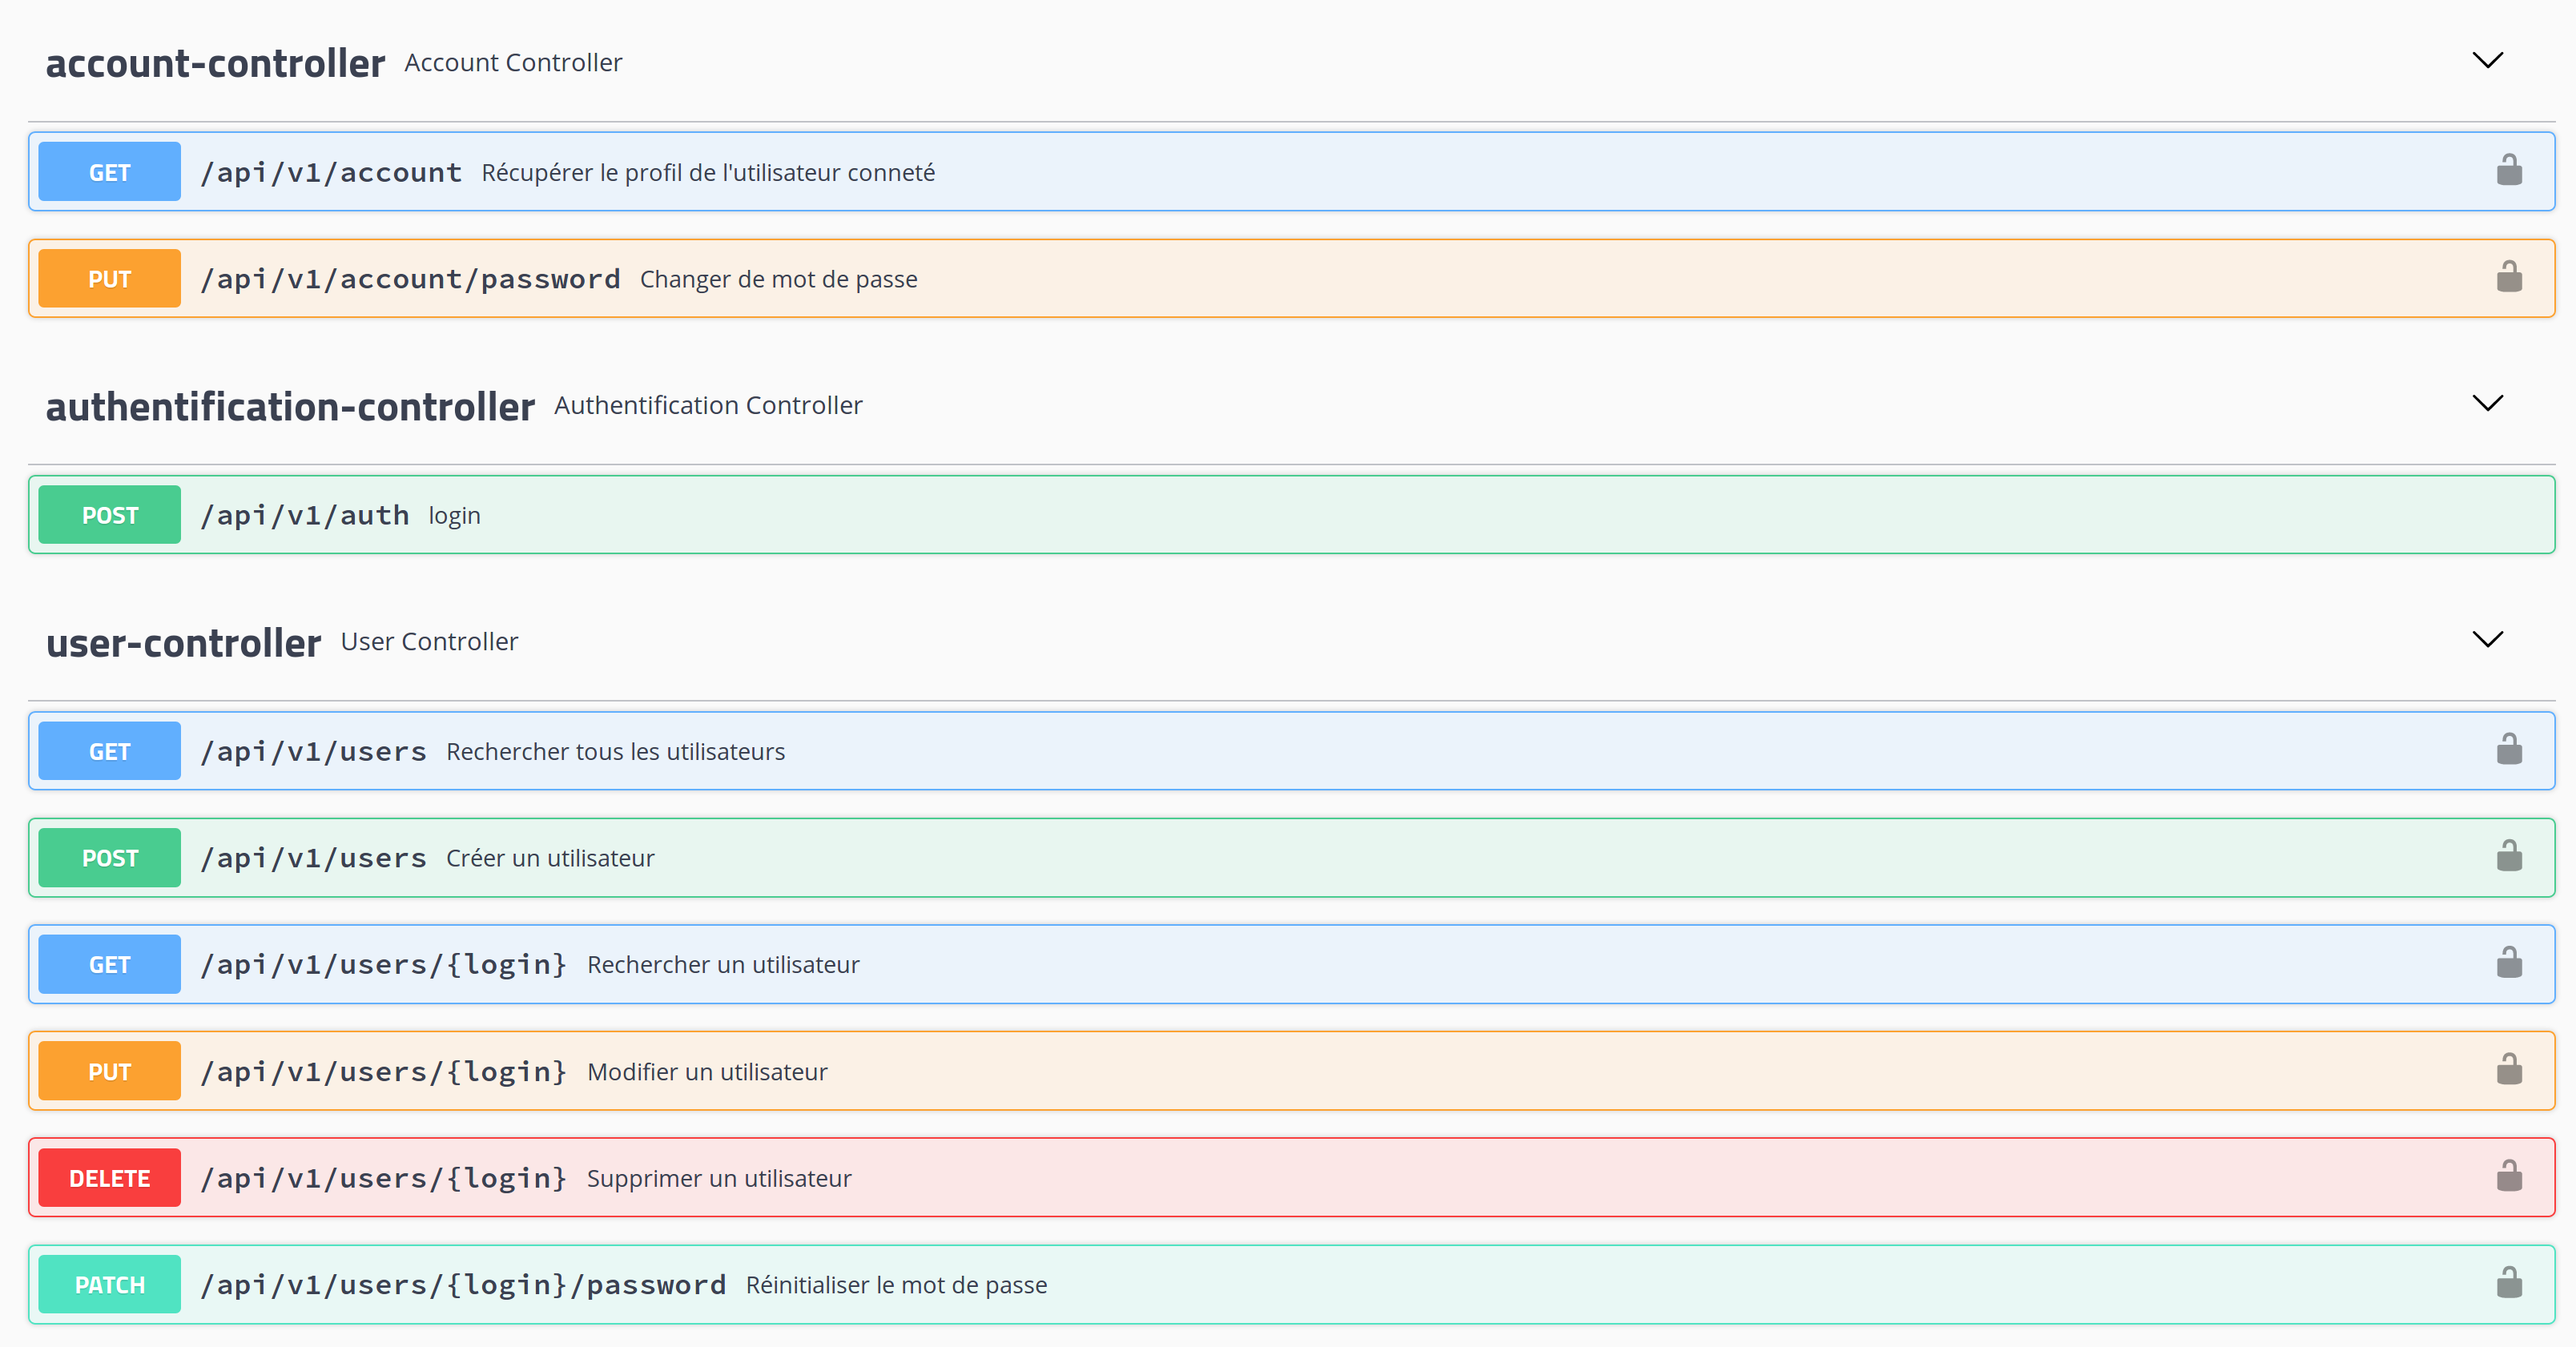
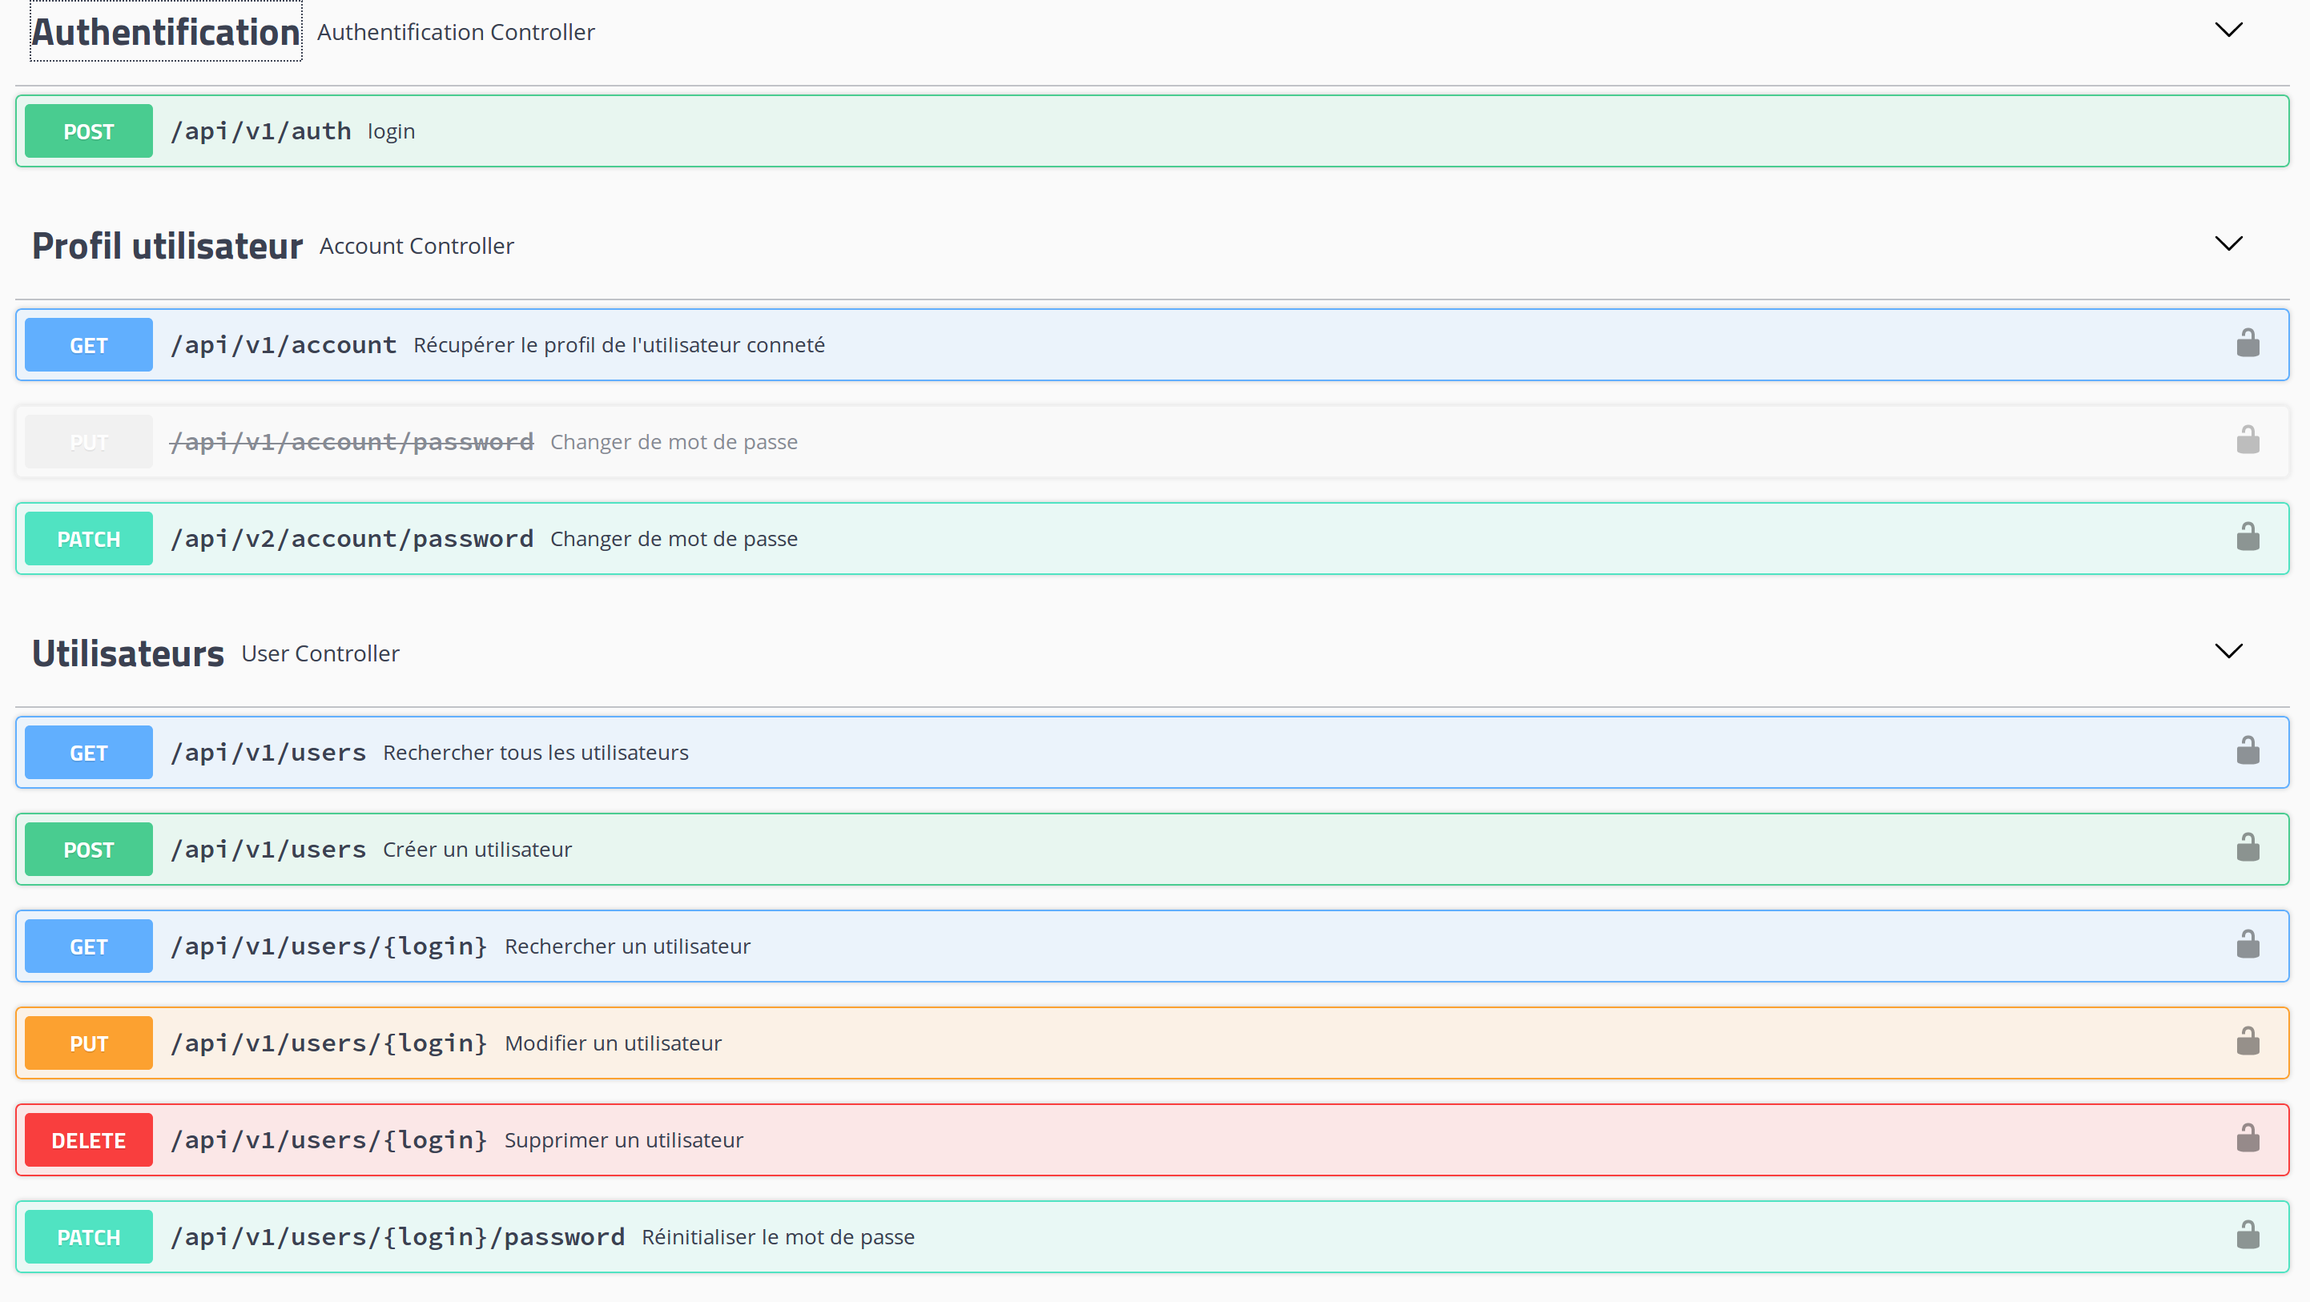
Add versonning API example

diff --git a/src/main/java/fr/nduheron/poc/springrestapi/tools/swagger/DocketFactory.java b/src/main/java/fr/nduheron/poc/springrestapi/tools/swagger/DocketFactory.java
@@ -1,9 +1,8 @@
 package fr.nduheron.poc.springrestapi.tools.swagger;
 
 import org.springframework.beans.factory.FactoryBean;
-import org.springframework.beans.factory.InitializingBean;
 import org.springframework.beans.factory.annotation.Autowired;
-import org.springframework.util.Assert;
+import org.springframework.boot.info.BuildProperties;
 
 import com.fasterxml.classmate.TypeResolver;
 import com.google.common.base.Predicate;
@@ -23,10 +22,13 @@ import springfox.documentation.spring.web.plugins.Docket;
  * Factory Spring permettant de configurer swagger
  *
  */
-public class DocketFactory implements FactoryBean<Docket>, InitializingBean {
+public class DocketFactory implements FactoryBean<Docket> {
 
 	@Autowired
 	private TypeResolver typeResolver;
+
+	@Autowired
+	private BuildProperties buildProperties;
 
 	private String title;
 
@@ -47,7 +49,8 @@ public class DocketFactory implements FactoryBean<Docket>, InitializingBean {
 	@Override
 	public Docket getObject() throws Exception {
 		Docket docket = new Docket(DocumentationType.SWAGGER_2).apiInfo(apiInfo())
-				.groupName(Strings.isNullOrEmpty(groupName) ? title : groupName).useDefaultResponseMessages(false);
+				.groupName(Strings.isNullOrEmpty(groupName) ? buildProperties.getArtifact() : groupName)
+				.useDefaultResponseMessages(false);
 
 		docket.additionalModels(typeResolver.resolve(ErrorParameter.class),
 				typeResolver.resolve(FunctionalError.class));
@@ -78,13 +81,19 @@ public class DocketFactory implements FactoryBean<Docket>, InitializingBean {
 
 	private ApiInfo apiInfo() {
 		ApiInfoBuilder apiInfoBuilder = new ApiInfoBuilder();
-		if (!Strings.isNullOrEmpty(title)) {
+		if (Strings.isNullOrEmpty(title)) {
+			apiInfoBuilder.title(buildProperties.getName());
+		} else {
 			apiInfoBuilder.title(title);
 		}
 		if (!Strings.isNullOrEmpty(description)) {
 			apiInfoBuilder.description(description);
 		}
-		apiInfoBuilder.version(version);
+		if (Strings.isNullOrEmpty(version)) {
+			apiInfoBuilder.version(buildProperties.getVersion());
+		} else {
+			apiInfoBuilder.version(version);
+		}
 		return apiInfoBuilder.build();
 	}
 
@@ -94,12 +103,6 @@ public class DocketFactory implements FactoryBean<Docket>, InitializingBean {
 
 	public void setGroupName(String groupName) {
 		this.groupName = groupName;
-	}
-
-	@Override
-	public void afterPropertiesSet() throws Exception {
-		Assert.notNull(title, "title must not be null");
-		Assert.notNull(selector, "selector must not be null");
 	}
 
 	public void setTitle(String title) {

diff --git a/src/main/java/fr/nduheron/poc/springrestapi/user/controller/AccountController.java b/src/main/java/fr/nduheron/poc/springrestapi/user/controller/AccountController.java
@@ -1,6 +1,5 @@
 package fr.nduheron.poc.springrestapi.user.controller;
 
-import javax.annotation.security.PermitAll;
 import javax.transaction.Transactional;
 import javax.validation.Valid;
 
@@ -19,11 +18,13 @@ import fr.nduheron.poc.springrestapi.user.dto.ChangePasswordDto;
 import fr.nduheron.poc.springrestapi.user.dto.UserDto;
 import fr.nduheron.poc.springrestapi.user.model.User;
 import fr.nduheron.poc.springrestapi.user.repository.UserRepository;
+import io.swagger.annotations.Api;
 import io.swagger.annotations.ApiOperation;
 
 @RestController
-@RequestMapping(value = "${api.basePath}/account")
+@RequestMapping("${api.basePath}")
 @Transactional
+@Api(tags = "Profil utilisateur")
 public class AccountController {
 
 	@Autowired
@@ -32,11 +33,19 @@ public class AccountController {
 	@Autowired
 	private UserRepository repo;
 
-	@RequestMapping(value = "password", method = RequestMethod.PUT)
+	@RequestMapping(value = "/v1/account/password", method = RequestMethod.PUT)
 	@ResponseStatus(HttpStatus.NO_CONTENT)
 	@ApiOperation(value = "Changer de mot de passe")
-	@PermitAll
+	@Deprecated
 	public void changePassword(Authentication authentication,
+			@RequestBody @Valid final ChangePasswordDto changePassword) {
+		changePasswordV2(authentication, changePassword);
+	}
+
+	@RequestMapping(value = "/v2/account/password", method = RequestMethod.PATCH)
+	@ResponseStatus(HttpStatus.NO_CONTENT)
+	@ApiOperation(value = "Changer de mot de passe")
+	public void changePasswordV2(Authentication authentication,
 			@RequestBody @Valid final ChangePasswordDto changePassword) {
 		UserDto userConnecte = (UserDto) authentication.getPrincipal();
 		User user = repo.getOne(userConnecte.getLogin());
@@ -48,9 +57,8 @@ public class AccountController {
 		}
 	}
 
-	@RequestMapping(method = RequestMethod.GET)
+	@RequestMapping(value = "/v1/account", method = RequestMethod.GET)
 	@ApiOperation(value = "Récupérer le profil de l'utilisateur conneté")
-	@PermitAll
 	public UserDto find(Authentication authentication) {
 		UserDto user = (UserDto) authentication.getPrincipal();
 		return user;

diff --git a/src/test/java/fr/nduheron/poc/springrestapi/steps/CommonSteps.java b/src/test/java/fr/nduheron/poc/springrestapi/steps/CommonSteps.java
@@ -2,6 +2,7 @@ package fr.nduheron.poc.springrestapi.steps;
 
 import static org.junit.Assert.assertEquals;
 
+import java.io.IOException;
 import java.util.List;
 
 import org.dbunit.IDatabaseTester;
@@ -31,12 +32,12 @@ public class CommonSteps extends AbstractCucumberSteps {
 	private IDatabaseTester dbTester;
 
 	@Then("^I get a (.+) response$")
-	public void I_get_a_response(final String statusCode) throws Throwable {
+	public void I_get_a_response(final String statusCode) {
 		assertEquals(HttpStatus.valueOf(statusCode), holder.getStatusCode());
 	}
 
 	@Then("^I get (\\d+) parameters in error$")
-	public void I_get_parameters_in_error(final int nbError) throws Throwable {
+	public void I_get_parameters_in_error(final int nbError) throws IOException {
 		List<ErrorParameter> errors = objectMapper.readValue(holder.getBody(),
 				new TypeReference<List<ErrorParameter>>() {
 				});
@@ -44,7 +45,7 @@ public class CommonSteps extends AbstractCucumberSteps {
 	}
 
 	@Then("^I get a (\\w+) error$")
-	public void I_get_a_error(final String errorCode) throws Throwable {
+	public void I_get_a_error(final String errorCode) throws IOException {
 		FunctionalError error = objectMapper.readValue(holder.getBody(), FunctionalError.class);
 		assertEquals(errorCode, error.getCode());
 	}
@@ -55,7 +56,7 @@ public class CommonSteps extends AbstractCucumberSteps {
 		login.setUsername(username);
 		login.setPassword("12345");
 
-		callApi("/auth", HttpMethod.POST, login);
+		callApi(1, "/auth", HttpMethod.POST, login);
 		if (holder.getStatusCode().is2xxSuccessful()) {
 			holder.getHeaders().add(HttpHeaders.AUTHORIZATION, "Bearer " + holder.getBody());
 		}
@@ -72,6 +73,16 @@ public class CommonSteps extends AbstractCucumberSteps {
 
 		dbTester.setDataSet(new CompositeDataSet(idataSets));
 		dbTester.onSetup();
+	}
+
+	@Given("^version (\\d)")
+	public void version(Integer version) {
+		holder.setVersion(version);
+	}
+
+	@Before
+	public void version() {
+		holder.setVersion(1);
 	}
 
 	@After("@dbunit")

diff --git a/src/main/java/fr/nduheron/poc/springrestapi/user/controller/AuthentificationController.java b/src/main/java/fr/nduheron/poc/springrestapi/user/controller/AuthentificationController.java
@@ -11,7 +11,6 @@ import org.springframework.security.authentication.BadCredentialsException;
 import org.springframework.security.authentication.DisabledException;
 import org.springframework.security.core.userdetails.UsernameNotFoundException;
 import org.springframework.security.crypto.password.PasswordEncoder;
-import org.springframework.stereotype.Controller;
 import org.springframework.web.bind.annotation.RequestBody;
 import org.springframework.web.bind.annotation.RequestMapping;
 import org.springframework.web.bind.annotation.RequestMethod;
@@ -22,11 +21,12 @@ import fr.nduheron.poc.springrestapi.user.dto.LoginDto;
 import fr.nduheron.poc.springrestapi.user.mapper.UserMapper;
 import fr.nduheron.poc.springrestapi.user.model.User;
 import fr.nduheron.poc.springrestapi.user.repository.UserRepository;
+import io.swagger.annotations.Api;
 
-@Controller
 @RestController
-@RequestMapping(value = "${api.basePath}/auth")
+@RequestMapping(value = "${api.basePath}/v1/auth")
 @Transactional
+@Api(tags = "Authentification")
 public class AuthentificationController {
 
 	@Autowired

diff --git a/src/main/java/fr/nduheron/poc/springrestapi/config/SwaggerConfiguration.java b/src/main/java/fr/nduheron/poc/springrestapi/config/SwaggerConfiguration.java
@@ -32,9 +32,6 @@ import springfox.documentation.swagger2.annotations.EnableSwagger2;
 @Import({ BeanValidatorPluginsConfiguration.class }) // plugin permettant d'ajouter javax.validation à la documentation
 public class SwaggerConfiguration {
 
-	@Value("${api.version}")
-	private String version;
-
 	@Value("${api.basePath}")
 	private String apiBasePath;
 
@@ -47,10 +44,7 @@ public class SwaggerConfiguration {
 	@Bean
 	public DocketFactory api() {
 		DocketFactory factory = new DocketFactory();
-		factory.setTitle("Spring Rest API");
-		factory.setGroupName("Spring Rest API");
 		factory.setSelector(PathSelectors.ant(apiBasePath + "/**"));
-		factory.setVersion(version);
 		factory.setSecurityContext(securityContext());
 		factory.setSecurityScheme(apiKey());
 		return factory;

diff --git a/src/test/java/fr/nduheron/poc/springrestapi/tools/AbstractCucumberSteps.java b/src/test/java/fr/nduheron/poc/springrestapi/tools/AbstractCucumberSteps.java
@@ -45,7 +45,12 @@ public abstract class AbstractCucumberSteps {
 	protected ObjectMapper objectMapper;
 
 	protected <T> void callApi(String path, HttpMethod method, T body) {
-		ResponseEntity<?> response = restTemplate.exchange("http://localhost:" + port + basePath + path, method,
+		callApi(holder.getVersion(), path, method, body);
+	}
+
+	protected <T> void callApi(int version, String path, HttpMethod method, T body) {
+		ResponseEntity<?> response = restTemplate.exchange(
+				"http://localhost:" + port + basePath + "/v" + version + path, method,
 				new HttpEntity<>(body, holder.getHeaders()), String.class);
 		holder.setStatusCode(response.getStatusCode());
 		if (response.hasBody()) {

diff --git a/src/main/java/fr/nduheron/poc/springrestapi/user/controller/UserController.java b/src/main/java/fr/nduheron/poc/springrestapi/user/controller/UserController.java
@@ -33,11 +33,13 @@ import fr.nduheron.poc.springrestapi.user.dto.UserDto;
 import fr.nduheron.poc.springrestapi.user.mapper.UserMapper;
 import fr.nduheron.poc.springrestapi.user.model.User;
 import fr.nduheron.poc.springrestapi.user.repository.UserRepository;
+import io.swagger.annotations.Api;
 import io.swagger.annotations.ApiOperation;
 
 @RestController
-@RequestMapping(value = "${api.basePath}/users")
+@RequestMapping(value = "${api.basePath}/v1/users")
 @Transactional
+@Api(tags = "Utilisateurs")
 public class UserController {
 
 	@Autowired

diff --git a/src/main/java/fr/nduheron/poc/springrestapi/tools/actuator/autoconfiguration/SwaggerAutoConfiguration.java b/src/main/java/fr/nduheron/poc/springrestapi/tools/actuator/autoconfiguration/SwaggerAutoConfiguration.java
@@ -26,8 +26,8 @@ public class SwaggerAutoConfiguration {
 	public DocketFactory adminApi() {
 		DocketFactory factory = new DocketFactory();
 		factory.setTitle("Administration API");
-		factory.setGroupName("zz_Admin API");
-		factory.setDescription("Consulter/modifier les ressources systèmes.");
+		factory.setGroupName("zz-admin-api");
+		factory.setDescription("Consulter les ressources systèmes.");
 		factory.setSelector(PathSelectors.ant(actuatorBasePathPattern));
 		return factory;
 	}

diff --git a/src/test/java/fr/nduheron/poc/springrestapi/steps/AccountSteps.java b/src/test/java/fr/nduheron/poc/springrestapi/steps/AccountSteps.java
@@ -38,7 +38,11 @@ public class AccountSteps extends AbstractCucumberSteps {
 		ChangePasswordDto changePassword = new ChangePasswordDto();
 		changePassword.setOldPassword(oldPassword);
 		changePassword.setNewPassword(newPassword);
-		callApi("/account/password", HttpMethod.PUT, changePassword);
+		if (2 == holder.getVersion()) {
+			callApi("/account/password", HttpMethod.PATCH, changePassword);
+		} else {
+			callApi("/account/password", HttpMethod.PUT, changePassword);
+		}
 	}
 
 }

diff --git a/src/test/java/fr/nduheron/poc/springrestapi/tools/Holder.java b/src/test/java/fr/nduheron/poc/springrestapi/tools/Holder.java
@@ -15,6 +15,7 @@ public class Holder {
 
 	private HttpStatus statusCode;
 	private String body;
+	private int version;
 
 	public Holder() {
 		headers = new HttpHeaders();
@@ -39,6 +40,14 @@ public class Holder {
 
 	public void setBody(String body) {
 		this.body = body;
+	}
+
+	public int getVersion() {
+		return version;
+	}
+
+	public void setVersion(int version) {
+		this.version = version;
 	}
 
 }

diff --git a/Readme.md b/Readme.md
@@ -14,6 +14,7 @@ Cette whiteapp à pour but de montrer comment créer une API Rest avec springboo
 - La gestion des erreurs
 - Mapping entité->DTO avec [Mapstruct](http://mapstruct.org/)
 - Versionning Base de données avec [Flyway](https://flywaydb.org/)
+- Versionning des APIs
 
 ## Structure du projet
 
